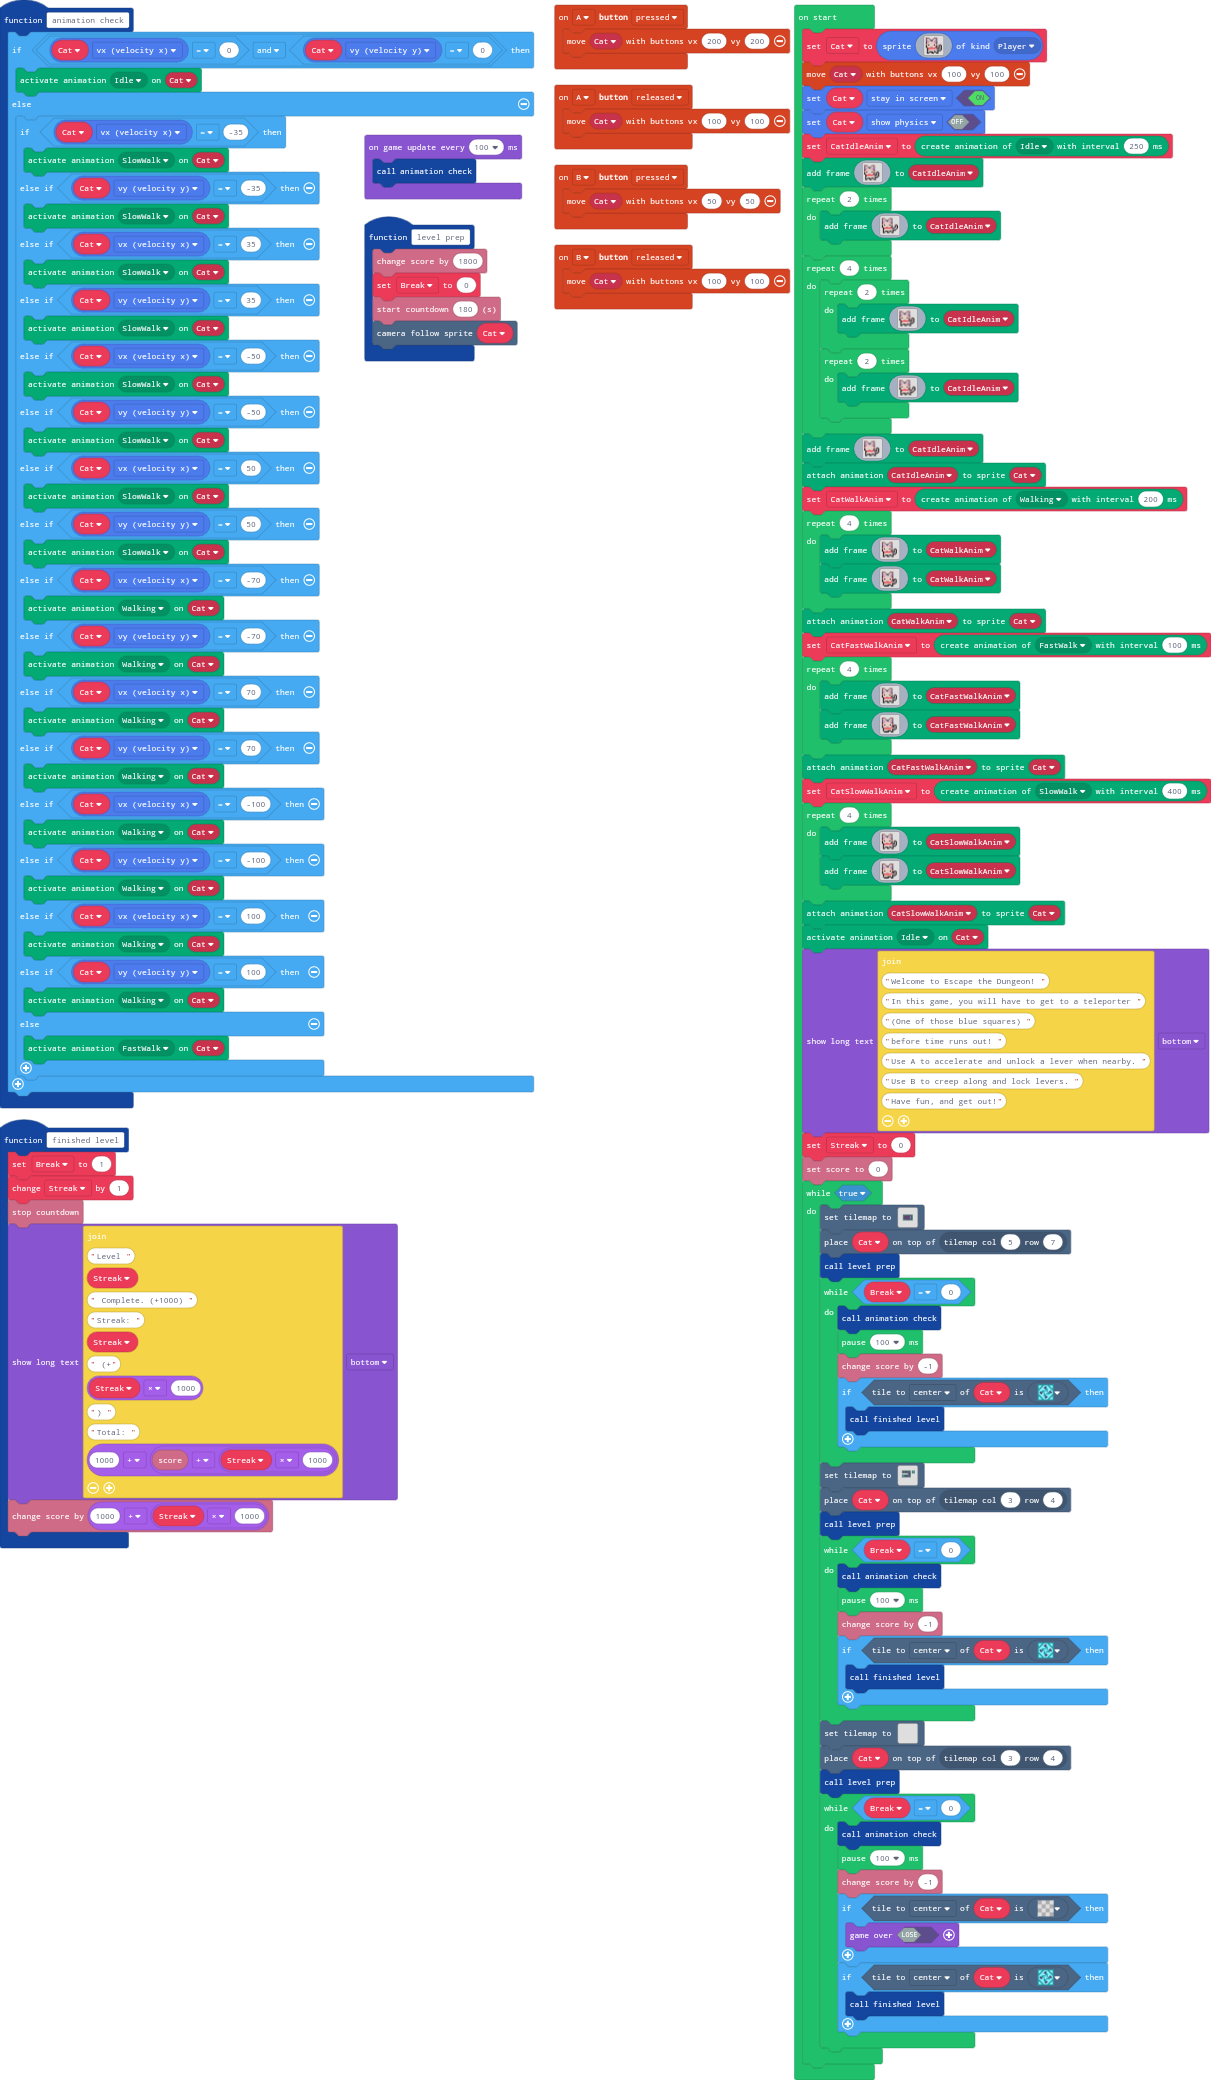
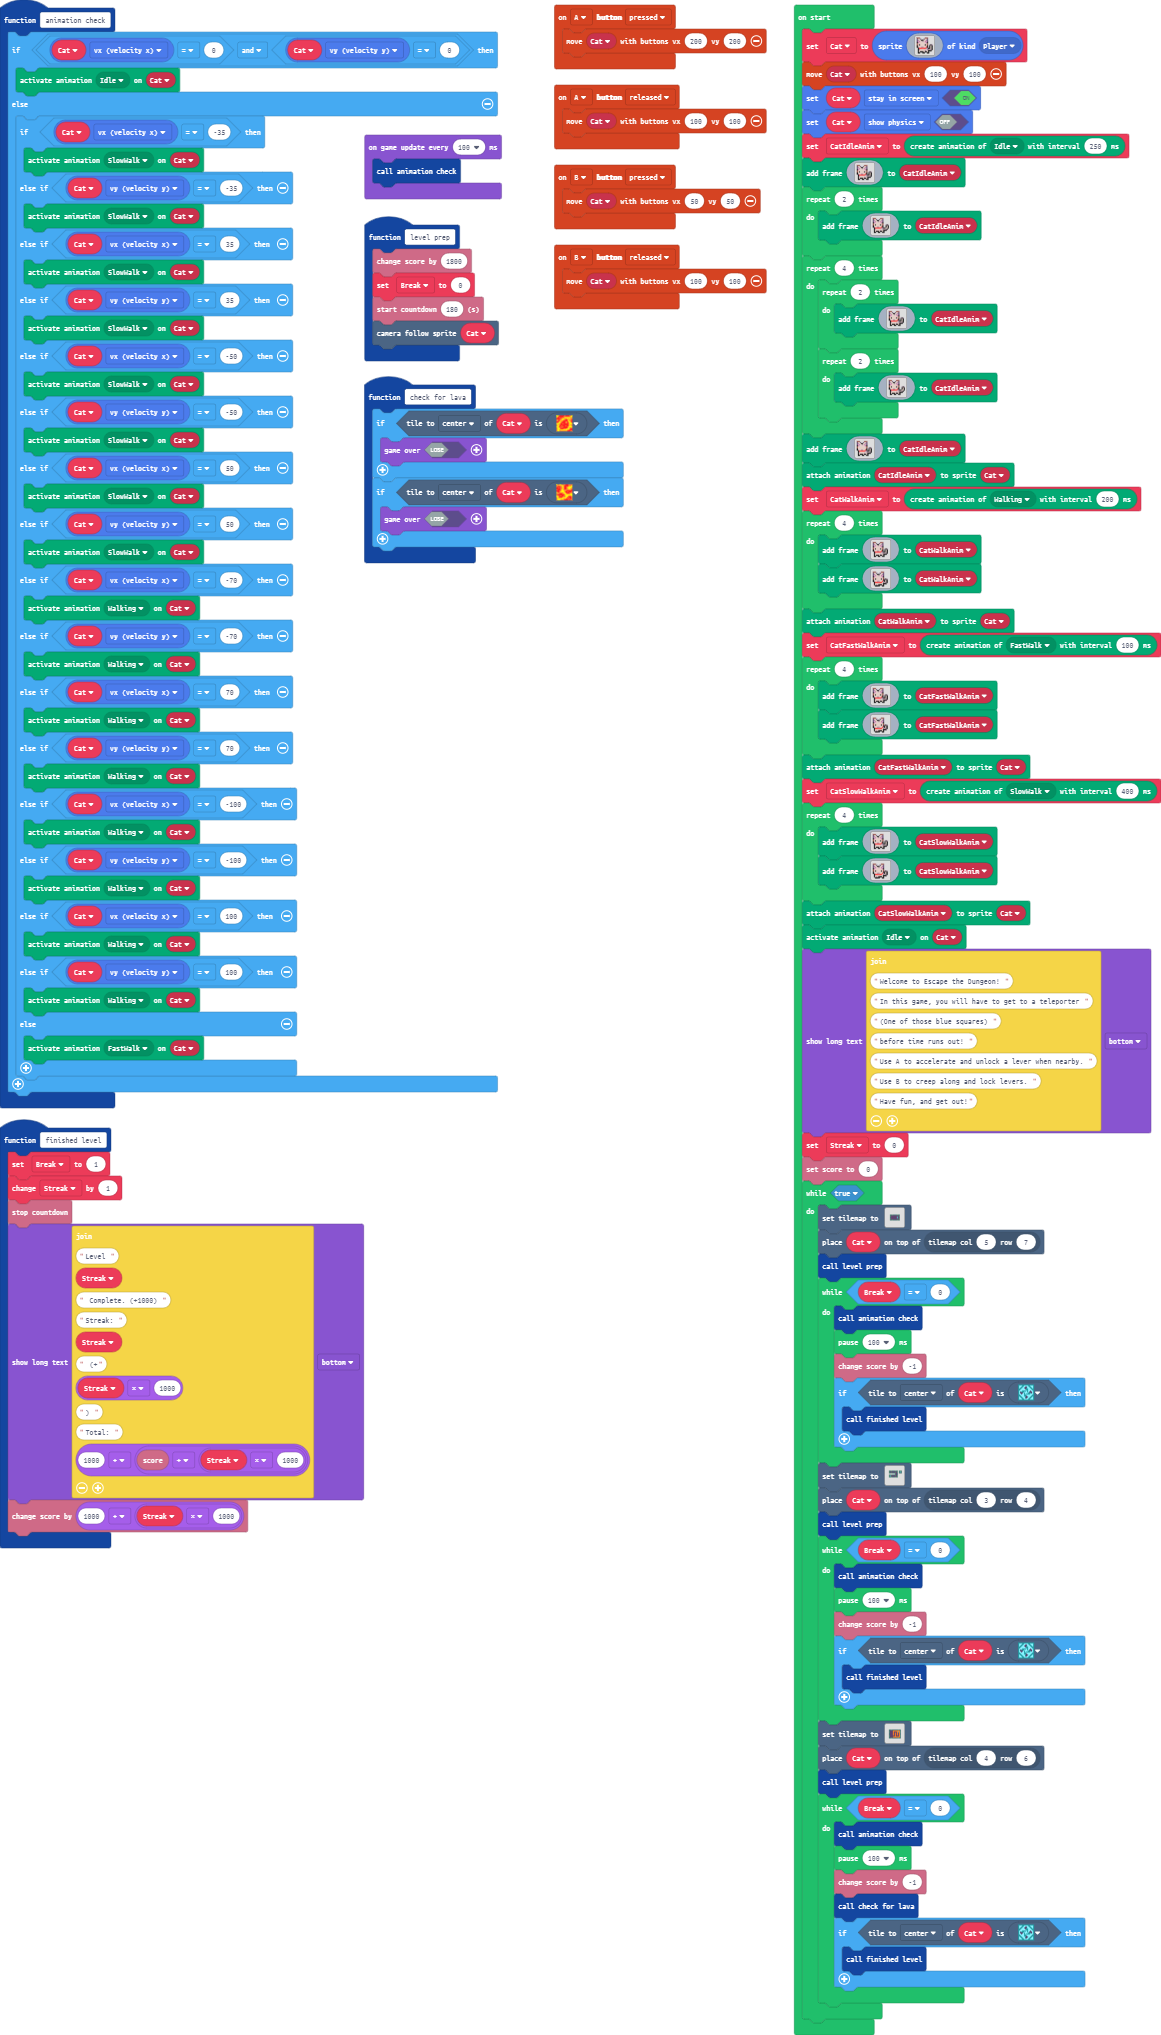
Update main.blocks, main.ts

diff --git a/main.ts b/main.ts
@@ -26,6 +26,14 @@ namespace myTiles {
 . . . . . . . . . . . . . . . . 
 `
 }
+function check_for_lava () {
+    if (Cat.tileKindAt(TileDirection.Center, sprites.dungeon.hazardLava0)) {
+        game.over(false)
+    }
+    if (Cat.tileKindAt(TileDirection.Center, sprites.dungeon.hazardLava1)) {
+        game.over(false)
+    }
+}
 function level_prep () {
     info.changeScoreBy(1800)
     Break = 0
@@ -384,37 +392,35 @@ while (true) {
         }
     }
     tiles.setTilemap(tiles.createTilemap(
-            hex`1000100000000000000000000000000000000000000000000000000000000000000000000000000000000000000000000000000000000000000000000000000000000000000000000000000000000000000000000000000000000000000000000000000000000000000000000000000000000000000000000000000000000000000000000000000000000000000000000000000000000000000000000000000000000000000000000000000000000000000000000000000000000000000000000000000000000000000000000000000000000000000000000000000000000000000000000000000000000000000000000000000000000000000000000000000000000000`,
[1 lines of base64/hex data omitted]
             img`
-. . . . . . . . . . . . . . . . 
-. . . . . . . . . . . . . . . . 
-. . . . . . . . . . . . . . . . 
-. . . . . . . . . . . . . . . . 
-. . . . . . . . . . . . . . . . 
-. . . . . . . . . . . . . . . . 
-. . . . . . . . . . . . . . . . 
-. . . . . . . . . . . . . . . . 
-. . . . . . . . . . . . . . . . 
-. . . . . . . . . . . . . . . . 
-. . . . . . . . . . . . . . . . 
-. . . . . . . . . . . . . . . . 
-. . . . . . . . . . . . . . . . 
-. . . . . . . . . . . . . . . . 
-. . . . . . . . . . . . . . . . 
-. . . . . . . . . . . . . . . . 
+2 2 2 2 2 2 2 2 2 2 2 2 2 2 2 2 
+2 2 2 2 2 2 2 2 2 2 2 2 2 2 2 2 
+2 2 2 2 2 2 2 2 2 2 2 2 2 2 2 2 
+2 2 2 2 2 2 2 2 2 2 2 2 2 2 2 2 
+2 2 2 2 2 2 2 2 2 2 2 2 2 2 2 2 
+2 2 2 . . . . . . . . . . 2 2 2 
+2 2 2 . . . . . . . . . . 2 2 2 
+2 2 2 . . . . . . . . . . 2 2 2 
+2 2 2 . . . . . . . . . . 2 2 2 
+2 2 2 . . . . . . . . . . 2 2 2 
+2 2 2 . . . . . . . . . . 2 2 2 
+2 2 2 . . . . . . . . . . 2 2 2 
+2 2 2 2 2 2 2 2 2 2 2 2 2 2 2 2 
+2 2 2 2 2 2 2 2 2 2 2 2 2 2 2 2 
+2 2 2 2 2 2 2 2 2 2 2 2 2 2 2 2 
+2 2 2 2 2 2 2 2 2 2 2 2 2 2 2 2 
 `,
-            [myTiles.tile0,sprites.dungeon.darkGroundNorthWest0,sprites.dungeon.darkGroundWest,sprites.dungeon.darkGroundSouthWest0,sprites.dungeon.darkGroundNorth,sprites.dungeon.darkGroundNorthEast0,sprites.dungeon.darkGroundSouthEast0,sprites.dungeon.darkGroundEast,sprites.dungeon.darkGroundSouth,sprites.dungeon.darkGroundCenter,sprites.dungeon.greenOuterNorth0,sprites.dungeon.greenOuterNorth1,sprites.dungeon.greenOuterNorthWest,sprites.dungeon.greenOuterNorthEast,sprites.dungeon.greenOuterSouthWest,sprites.dungeon.greenOuterSouthEast,sprites.dungeon.greenOuterWest1,sprites.dungeon.greenOuterWest0,sprites.dungeon.greenOuterSouth0,sprites.dungeon.greenOuterSouth1,sprites.dungeon.greenOuterEast0,sprites.dungeon.greenOuterEast1,sprites.dungeon.greenOuterNorth2,sprites.dungeon.greenOuterSouth2,sprites.dungeon.greenOuterEast2,sprites.dungeon.greenOuterWest2,sprites.dungeon.collectibleInsignia,sprites.castle.tilePath3,sprites.dungeon.chestClosed,sprites.dungeon.darkGroundNorthWest1],
+            [myTiles.tile0,sprites.dungeon.darkGroundNorthWest0,sprites.dungeon.darkGroundWest,sprites.dungeon.darkGroundSouthWest0,sprites.dungeon.darkGroundNorth,sprites.dungeon.darkGroundNorthEast0,sprites.dungeon.darkGroundSouthEast0,sprites.dungeon.darkGroundEast,sprites.dungeon.darkGroundSouth,sprites.dungeon.darkGroundCenter,sprites.dungeon.greenOuterNorth0,sprites.dungeon.greenOuterNorth1,sprites.dungeon.greenOuterNorthWest,sprites.dungeon.greenOuterNorthEast,sprites.dungeon.greenOuterSouthWest,sprites.dungeon.greenOuterSouthEast,sprites.dungeon.greenOuterWest1,sprites.dungeon.greenOuterWest0,sprites.dungeon.greenOuterSouth0,sprites.dungeon.greenOuterSouth1,sprites.dungeon.greenOuterEast0,sprites.dungeon.greenOuterEast1,sprites.dungeon.greenOuterNorth2,sprites.dungeon.greenOuterSouth2,sprites.dungeon.greenOuterEast2,sprites.dungeon.greenOuterWest2,sprites.dungeon.collectibleInsignia,sprites.castle.tilePath3,sprites.dungeon.chestClosed,sprites.dungeon.darkGroundNorthWest1,sprites.dungeon.hazardLava0,sprites.dungeon.hazardLava1],
             TileScale.Sixteen
         ))
-    tiles.placeOnTile(Cat, tiles.getTileLocation(3, 4))
+    tiles.placeOnTile(Cat, tiles.getTileLocation(4, 6))
     level_prep()
     while (Break == 0) {
         animation_check()
         pause(100)
         info.changeScoreBy(-1)
-        if (Cat.tileKindAt(TileDirection.Center, myTiles.tile0)) {
-            game.over(false)
-        }
+        check_for_lava()
         if (Cat.tileKindAt(TileDirection.Center, sprites.dungeon.collectibleInsignia)) {
             finished_level()
         }
